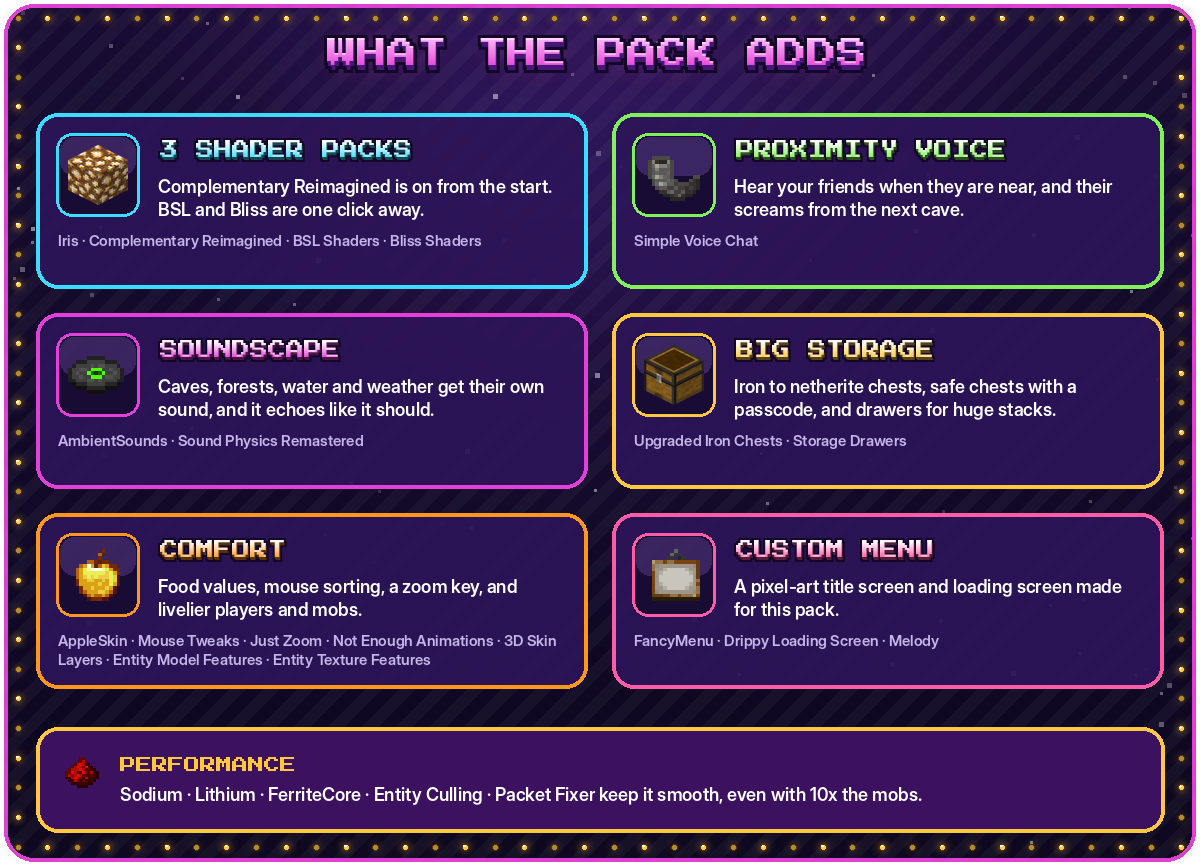
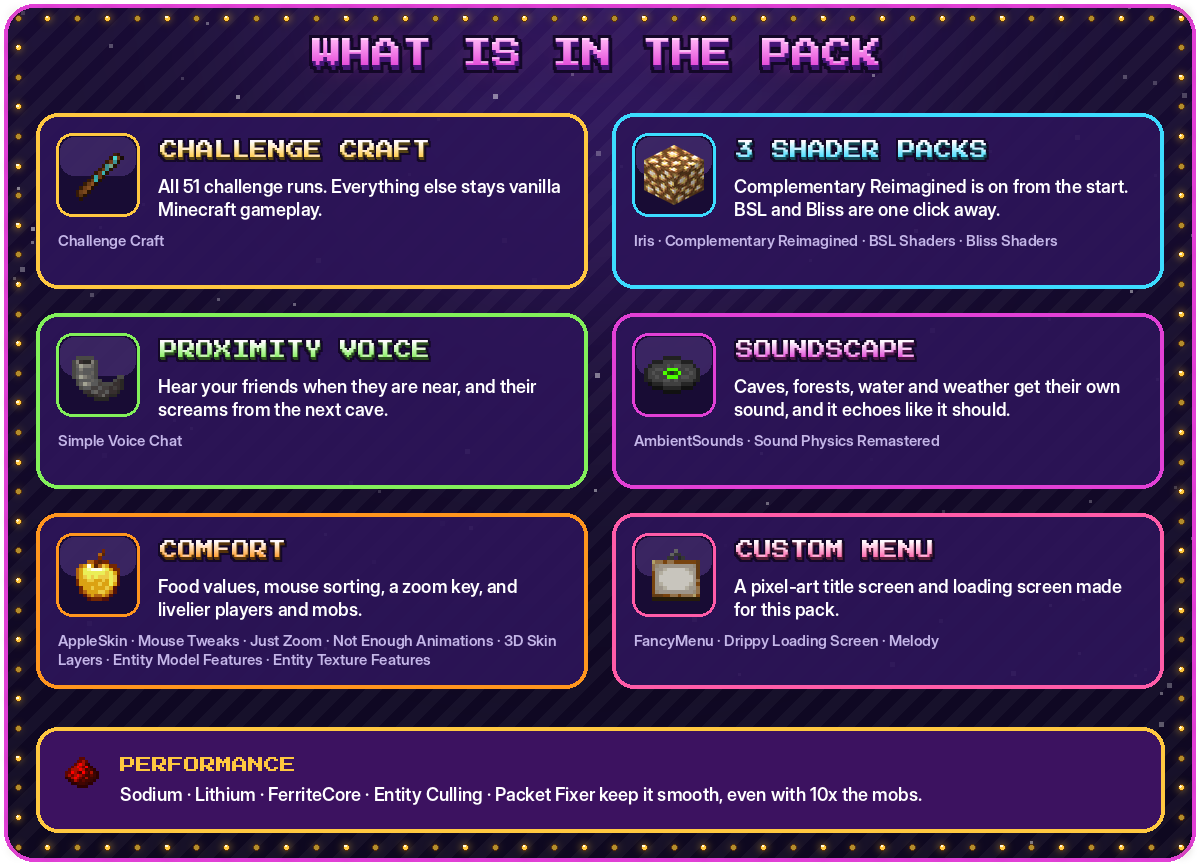
Modpack page: back to pack v4, vanilla gameplay plus Challenge Craft
The pack stays at v4: no Upgraded Iron Chests or Storage Drawers. The storage
tile becomes a Challenge Craft tile, the counts follow the v4 manifest
(27 mods + 3 shader packs) and the v4 server pack (15 mods), and the page and
the modpack banner on the mod page no longer mention storage.

Claude-Session: https://claude.ai/code/session_01Fk46dch3whoyNRMPgRGf6J

diff --git a/docs/curseforge/description-modpack.html b/docs/curseforge/description-modpack.html
@@ -1,15 +1,15 @@
 <!-- CurseForge project description of the Challenge Craft modpack (HTML, with CurseForge's own spoiler box: <div class="spoiler">).
      Paste it into the description editor's HTML view. The images load from this public repo (branch 26.3-lockout-bot);
-     docs/curseforge/make_images.py builds them. The mod list is the manifest of "Challenge Craft 26.3 v5". -->
-<p style="text-align:center"><img src="https://raw.githubusercontent.com/Kasax007/Kasax_Challenge_Craft/26.3-lockout-bot/docs/curseforge/img/header_pack.png" alt="Challenge Craft - the modpack, everything set up. Minecraft 26.3, Fabric, 29 mods and 3 shader packs"></p>
+     docs/curseforge/make_images.py builds them. The mod list is the manifest of "Challenge Craft 26.3 v4". -->
+<p style="text-align:center"><img src="https://raw.githubusercontent.com/Kasax007/Kasax_Challenge_Craft/26.3-lockout-bot/docs/curseforge/img/header_pack.png" alt="Challenge Craft - the modpack, everything set up. Minecraft 26.3, Fabric, 27 mods and 3 shader packs"></p>
 <h3 style="text-align:center"><strong>Made with love, sweat and tears<br>Fabric only</strong></h3>
 <p style="text-align:center"><a href="https://bisecthosting.com/kasax007" rel="nofollow"><img src="https://raw.githubusercontent.com/Kasax007/Kasax_Challenge_Craft/26.3-lockout-bot/docs/curseforge/img/bisect.png" alt="Play with your friends - rent a server at BisectHosting, code KASAX007 for 25% off"></a></p>
 <p>&nbsp;</p>
 
-<h3 style="text-align:center"><strong>The whole challenge run, set up and ready.<br>The <a href="https://www.curseforge.com/minecraft/mc-mods/challenge" rel="nofollow">Challenge Craft</a> mod plus shaders, proximity voice chat, a full soundscape, big storage and a menu made for it. Click Play and start a run.</strong></h3>
+<h3 style="text-align:center"><strong>The whole challenge run, set up and ready.<br>Vanilla gameplay plus the <a href="https://www.curseforge.com/minecraft/mc-mods/challenge" rel="nofollow">Challenge Craft</a> mod. On top only shaders, proximity voice chat, a full soundscape, performance and a menu made for it. Click Play and start a run.</strong></h3>
 <p>&nbsp;</p>
 
-<p style="text-align:center"><img src="https://raw.githubusercontent.com/Kasax007/Kasax_Challenge_Craft/26.3-lockout-bot/docs/curseforge/img/pack_glance.png" alt="What the pack adds: 3 shader packs, proximity voice chat, a soundscape, big storage, comfort mods, a custom menu and performance mods"></p>
+<p style="text-align:center"><img src="https://raw.githubusercontent.com/Kasax007/Kasax_Challenge_Craft/26.3-lockout-bot/docs/curseforge/img/pack_glance.png" alt="What is in the pack: Challenge Craft, 3 shader packs, proximity voice chat, a soundscape, comfort mods, a custom menu and performance mods"></p>
 <p>&nbsp;</p>
 
 <p><img src="https://raw.githubusercontent.com/Kasax007/Kasax_Challenge_Craft/26.3-lockout-bot/docs/curseforge/img/strip_menu.png" alt="A menu of its own"></p>
@@ -54,17 +54,18 @@
 </ul>
 <p><strong>Server pack</strong></p>
 <ul>
-<li>Contains the 17 mods a server needs: Challenge Craft, Fabric API, Simple Voice Chat, Upgraded Iron Chests, Storage Drawers, Sodium, Lithium, FerriteCore, Packet Fixer, spark, Mouse Tweaks, CreativeCore, AttributeFix, Prickle, Konkrete, Melody and the BisectHosting Server Menu.</li>
+<li>Contains the 15 mods a server needs: Challenge Craft, Fabric API, Simple Voice Chat, Sodium, Lithium, FerriteCore, Packet Fixer, spark, Mouse Tweaks, CreativeCore, AttributeFix, Prickle, Konkrete, Melody and the BisectHosting Server Menu.</li>
 <li>Plus the configs, a server.properties (survival, normal difficulty) and a README.</li>
 <li>Install it on a Fabric 26.3 server, then open UDP port 24454 for Simple Voice Chat.</li>
 <li>Server and players must run the same pack version.</li>
 </ul>
-<p><strong>Mod list (32 projects)</strong></p>
+<p><strong>Mod list (30 projects)</strong></p>
+<p>The gameplay stays vanilla. Challenge Craft is the only mod that changes it; everything else is looks, sound, voice chat, comfort and performance.</p>
 <ul>
 <li><strong>The challenges:</strong> <a href="https://www.curseforge.com/minecraft/mc-mods/challenge" rel="nofollow">Challenge Craft</a></li>
 <li><strong>Looks:</strong> <a href="https://www.curseforge.com/minecraft/mc-mods/irisshaders" rel="nofollow">Iris Shaders</a>, <a href="https://www.curseforge.com/minecraft/shaders/complementary-reimagined" rel="nofollow">Complementary Reimagined</a>, <a href="https://www.curseforge.com/minecraft/shaders/bsl-shaders" rel="nofollow">BSL Shaders</a>, <a href="https://www.curseforge.com/minecraft/shaders/bliss-shader" rel="nofollow">Bliss Shaders</a>, <a href="https://www.curseforge.com/minecraft/mc-mods/entity-model-features" rel="nofollow">Entity Model Features</a>, <a href="https://www.curseforge.com/minecraft/mc-mods/entity-texture-features-fabric" rel="nofollow">Entity Texture Features</a>, <a href="https://www.curseforge.com/minecraft/mc-mods/skin-layers-3d" rel="nofollow">3D Skin Layers</a>, <a href="https://www.curseforge.com/minecraft/mc-mods/not-enough-animations" rel="nofollow">Not Enough Animations</a></li>
 <li><strong>Sound and voice:</strong> <a href="https://www.curseforge.com/minecraft/mc-mods/simple-voice-chat" rel="nofollow">Simple Voice Chat</a>, <a href="https://www.curseforge.com/minecraft/mc-mods/ambientsounds" rel="nofollow">AmbientSounds</a>, <a href="https://www.curseforge.com/minecraft/mc-mods/sound-physics-remastered" rel="nofollow">Sound Physics Remastered</a></li>
-<li><strong>Comfort and storage:</strong> <a href="https://www.curseforge.com/minecraft/mc-mods/appleskin" rel="nofollow">AppleSkin</a>, <a href="https://www.curseforge.com/minecraft/mc-mods/mouse-tweaks" rel="nofollow">Mouse Tweaks</a>, <a href="https://www.curseforge.com/minecraft/mc-mods/just-zoom" rel="nofollow">Just Zoom</a>, <a href="https://www.curseforge.com/minecraft/mc-mods/upgraded-iron-chests" rel="nofollow">Upgraded Iron Chests</a>, <a href="https://www.curseforge.com/minecraft/mc-mods/storage-drawers" rel="nofollow">Storage Drawers</a></li>
+<li><strong>Comfort:</strong> <a href="https://www.curseforge.com/minecraft/mc-mods/appleskin" rel="nofollow">AppleSkin</a>, <a href="https://www.curseforge.com/minecraft/mc-mods/mouse-tweaks" rel="nofollow">Mouse Tweaks</a>, <a href="https://www.curseforge.com/minecraft/mc-mods/just-zoom" rel="nofollow">Just Zoom</a></li>
 <li><strong>Performance:</strong> <a href="https://www.curseforge.com/minecraft/mc-mods/sodium" rel="nofollow">Sodium</a>, <a href="https://www.curseforge.com/minecraft/mc-mods/lithium" rel="nofollow">Lithium</a>, <a href="https://www.curseforge.com/minecraft/mc-mods/ferritecore-fabric" rel="nofollow">FerriteCore</a>, <a href="https://www.curseforge.com/minecraft/mc-mods/entityculling" rel="nofollow">Entity Culling</a>, <a href="https://www.curseforge.com/minecraft/mc-mods/packet-fixer" rel="nofollow">Packet Fixer</a>, <a href="https://www.curseforge.com/minecraft/mc-mods/spark" rel="nofollow">spark</a></li>
 <li><strong>Menu:</strong> <a href="https://www.curseforge.com/minecraft/mc-mods/fancymenu" rel="nofollow">FancyMenu</a>, <a href="https://www.curseforge.com/minecraft/mc-mods/drippy-loading-screen" rel="nofollow">Drippy Loading Screen</a>, <a href="https://www.curseforge.com/minecraft/mc-mods/melody" rel="nofollow">Melody</a>, <a href="https://www.curseforge.com/minecraft/mc-mods/bisecthosting-server-integration-menu-fabric" rel="nofollow">BisectHosting Server Integration Menu</a></li>
 <li><strong>Libraries:</strong> <a href="https://www.curseforge.com/minecraft/mc-mods/fabric-api" rel="nofollow">Fabric API</a>, <a href="https://www.curseforge.com/minecraft/mc-mods/creativecore" rel="nofollow">CreativeCore</a>, <a href="https://www.curseforge.com/minecraft/mc-mods/konkrete" rel="nofollow">Konkrete</a>, <a href="https://www.curseforge.com/minecraft/mc-mods/prickle" rel="nofollow">Prickle</a>, <a href="https://www.curseforge.com/minecraft/mc-mods/attributefix" rel="nofollow">AttributeFix</a></li>

diff --git a/docs/curseforge/description-mod.html b/docs/curseforge/description-mod.html
@@ -49,7 +49,7 @@
 <p style="text-align:center"><strong>Bob is in an early development stage.</strong> He gets better with every update, but he still makes mistakes, and sometimes dies in very creative ways. Clips are welcome on <a href="https://discord.gg/zuZVtVvJaY" rel="nofollow">Discord</a>.</p>
 <p>&nbsp;</p>
 
-<p style="text-align:center"><a href="https://www.curseforge.com/minecraft/modpacks/challenge-craft" rel="nofollow"><img src="https://raw.githubusercontent.com/Kasax007/Kasax_Challenge_Craft/26.3-lockout-bot/docs/curseforge/img/pack_cta.jpg" alt="Or take the whole pack: the Challenge Craft modpack with shaders, proximity voice chat, a soundscape, big storage and a custom menu"></a></p>
+<p style="text-align:center"><a href="https://www.curseforge.com/minecraft/modpacks/challenge-craft" rel="nofollow"><img src="https://raw.githubusercontent.com/Kasax007/Kasax_Challenge_Craft/26.3-lockout-bot/docs/curseforge/img/pack_cta.jpg" alt="Or take the whole pack: the Challenge Craft modpack, vanilla gameplay with shaders, proximity voice chat, a soundscape and a custom menu"></a></p>
 <p>&nbsp;</p>
 
 <p style="text-align:center"><strong>Want everything set up already? Play the <a href="https://www.curseforge.com/minecraft/modpacks/challenge-craft" rel="nofollow">Challenge Craft modpack</a>.</strong></p>

diff --git a/docs/curseforge/make_images.py b/docs/curseforge/make_images.py
@@ -10,7 +10,7 @@ menu art and the pack logo of the modpack are in docs/curseforge/src (copied fro
 Frames are cut with ffmpeg into $CC_FRAMES (default: a temporary folder).
 what: image names without extension (header glance ...), or nothing for everything. Every number on the images is
 counted from this repository (see counts()); the modpack numbers come from $CC_PACK (the modpack zip) when it is set,
-otherwise from the list in PACK_MODS below (the manifest of Challenge Craft 26.3 v5)."""
+otherwise from the list in PACK_MODS below (the manifest of Challenge Craft 26.3 v4)."""
 import io
 import json
 import math
@@ -139,13 +139,14 @@ def counts():
                 keys=keys, lang=lang)
 
 
-# The modpack (manifest of "Challenge Craft 26.3 v5", CurseForge project 1653698). Groups for the pictures.
+# The modpack (manifest of "Challenge Craft 26.3 v4", CurseForge project 1653698). Groups for the pictures. The pack stays
+# vanilla gameplay plus Challenge Craft: everything else is client polish, sound, voice chat, shaders and performance.
 PACK_MODS = {
     'challenge': ['Challenge Craft'],
     'looks': ['Iris Shaders', 'Complementary Reimagined', 'BSL Shaders', 'Bliss Shaders', 'Entity Model Features',
               'Entity Texture Features', '3D Skin Layers', 'Not Enough Animations'],
     'sound': ['Simple Voice Chat', 'AmbientSounds', 'Sound Physics Remastered'],
-    'comfort': ['AppleSkin', 'Mouse Tweaks', 'Just Zoom', 'Upgraded Iron Chests', 'Storage Drawers'],
+    'comfort': ['AppleSkin', 'Mouse Tweaks', 'Just Zoom'],
     'speed': ['Sodium', 'Lithium', 'FerriteCore', 'Entity Culling', 'Packet Fixer', 'spark'],
     'menu': ['FancyMenu', 'Drippy Loading Screen', 'Melody', 'BisectHosting Server Menu'],
     'library': ['Fabric API', 'CreativeCore', 'Konkrete', 'Prickle', 'AttributeFix'],
@@ -1288,8 +1289,8 @@ def pack_cta(c):
     glow_behind(im, t, (x, 40), MAGENTA, 14, 110)
     im.alpha_composite(t, (x, 40))
     d = ImageDraw.Draw(im)
-    lines = wrap(d, 'The Challenge Craft modpack: this mod plus shaders, proximity voice chat, a full soundscape, '
-                    'big storage and a menu made for it. All set up, one click.', semi(22), w - x - 60)
+    lines = wrap(d, 'The Challenge Craft modpack: this mod plus shaders, proximity voice chat, a full soundscape '
+                    'and a menu made for it. Vanilla gameplay, all set up, one click.', semi(22), w - x - 60)
     draw_lines(d, (x + 2, 100), lines, semi(22), WHITE, 29)
     pk = pack_counts()
     chips = ['%d MODS' % pk['mods'], '%d SHADER PACKS' % pk['shaders'], 'SERVER PACK']
@@ -1302,8 +1303,8 @@ def pack_cta(c):
     save(im, 'pack_cta.jpg', quality=90)
 
 
-# the server pack of v5 (Serverpack Challenge Craft 26.3-v5.zip): the gameplay mods, plus configs and server.properties
-SERVER_MODS = ['Challenge Craft', 'Fabric API', 'Simple Voice Chat', 'Upgraded Iron Chests', 'Storage Drawers', 'Lithium',
+# the server pack of v4 (Serverpack Challenge Craft 26.3-v4.zip): the mods a server needs, plus configs and server.properties
+SERVER_MODS = ['Challenge Craft', 'Fabric API', 'Simple Voice Chat', 'Lithium',
                'FerriteCore', 'Sodium', 'Packet Fixer', 'spark', 'Mouse Tweaks', 'CreativeCore', 'AttributeFix', 'Prickle',
                'Konkrete', 'Melody', 'BisectHosting Server Menu']
 VOICE_PORT = 24454
@@ -1331,9 +1332,11 @@ def pack_glance(c):
     tw, th, gap = 552, 176, 24
     h = 34 + 50 + 30 + 3 * (th + gap) + 14 + 104 + 34
     im = panel_bg(w, h, seed=37)
-    y = heading(im, 'WHAT THE PACK ADDS', 34, 30)
+    y = heading(im, 'WHAT IS IN THE PACK', 34, 30)
     pk = pack_counts()
     tiles = [
+        (tex('cc:item/challenge_stick'), 'CHALLENGE CRAFT', 'All %d challenge runs. Everything else stays vanilla Minecraft gameplay.' % c['n'], GOLD,
+         ['Challenge Craft']),
         (cube(tex('block/glowstone'), tex('block/glowstone'), 60), '%d SHADER PACKS' % pk['shaders'],
          'Complementary Reimagined is on from the start. BSL and Bliss are one click away.', CYAN,
          ['Iris'] + SHADERS),
@@ -1341,8 +1344,6 @@ def pack_glance(c):
          ['Simple Voice Chat']),
         (tex('item/music_disc_cat'), 'SOUNDSCAPE', 'Caves, forests, water and weather get their own sound, and it echoes like it should.', MAGENTA,
          ['AmbientSounds', 'Sound Physics Remastered']),
-        (chest_icon(60), 'BIG STORAGE', 'Iron to netherite chests, safe chests with a passcode, and drawers for huge stacks.', GOLD,
-         ['Upgraded Iron Chests', 'Storage Drawers']),
         (tex('item/golden_apple'), 'COMFORT', 'Food values, mouse sorting, a zoom key, and livelier players and mobs.', AMBER,
          ['AppleSkin', 'Mouse Tweaks', 'Just Zoom', 'Not Enough Animations', '3D Skin Layers', 'Entity Model Features', 'Entity Texture Features']),
         (tex('item/painting'), 'CUSTOM MENU', 'A pixel-art title screen and loading screen made for this pack.', ROSE,
